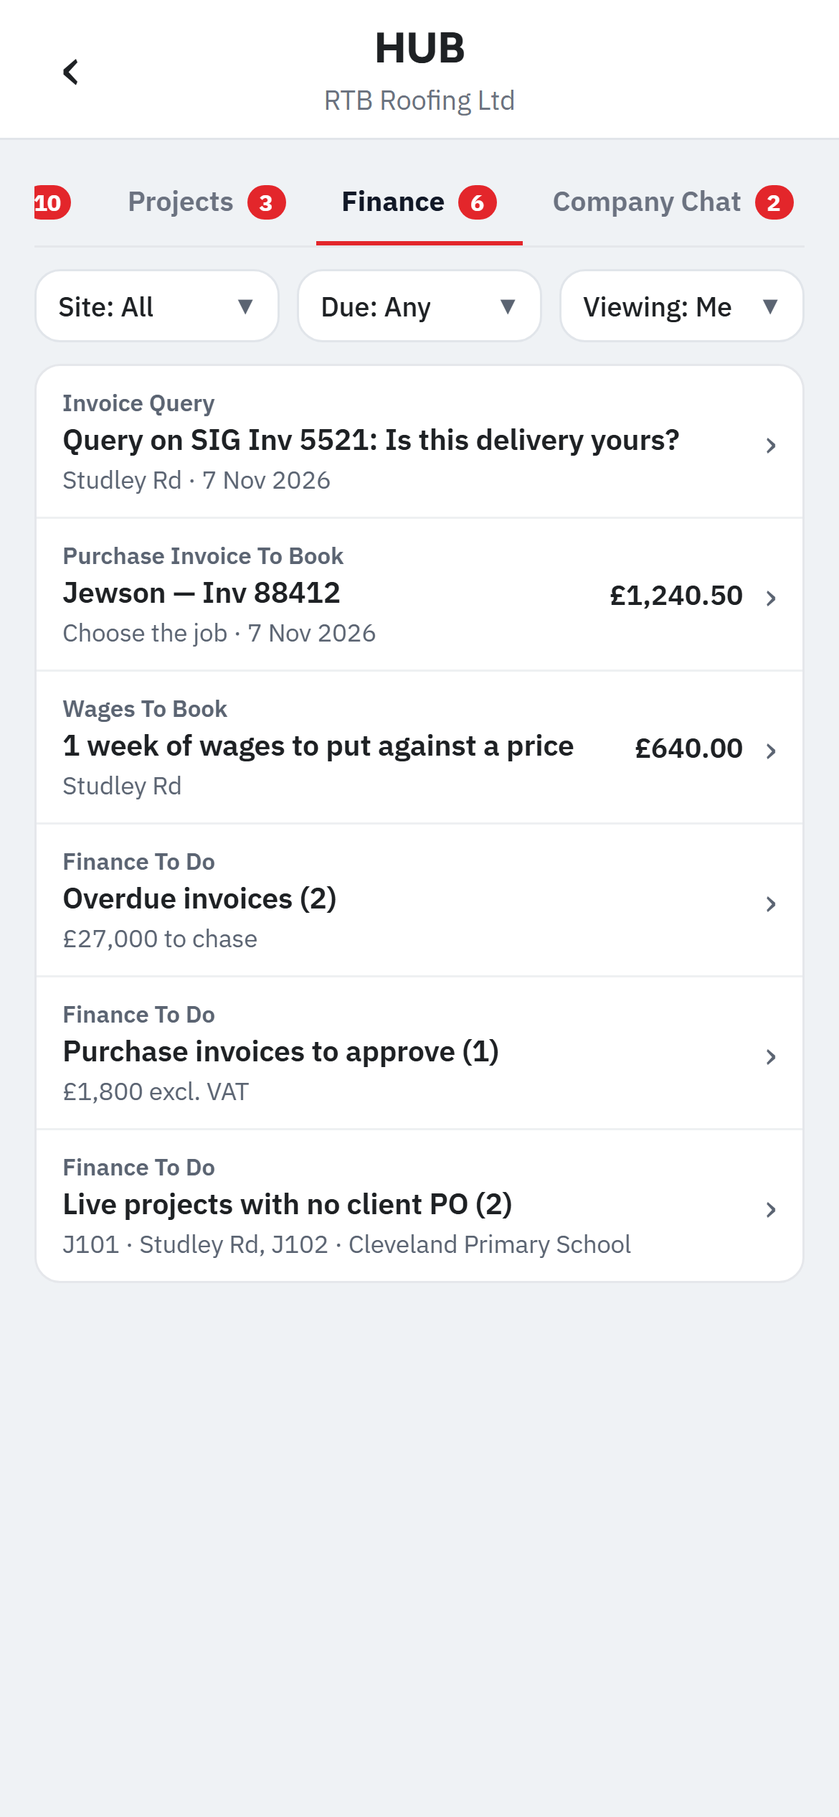
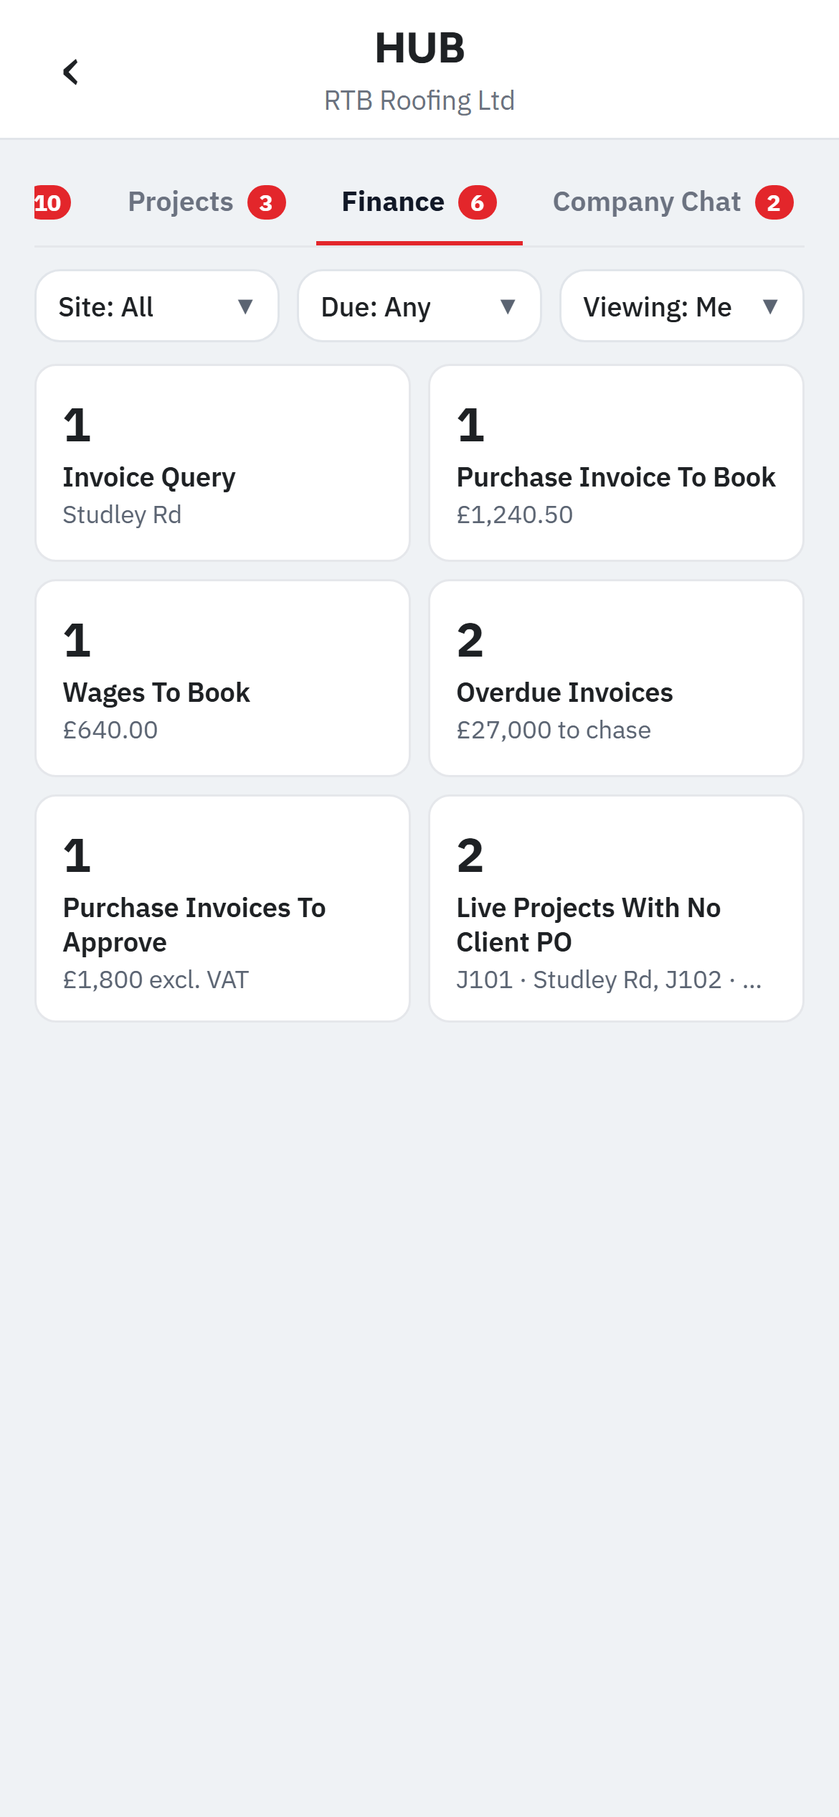
HUB (Andy, 7 Nov): Finance as tiles (one per kind, with how many and what they come to; a tile opens its items, or the item if there's one; Finance's to-dos capitalised), Projects line by line grouped by task under headings. hub-check passes (28).
Repair rebuild, in progress: the contract home's four tiles (Works Orders with a red count, Health & Safety, Calendar, To Do List); tenant and phone read from the works order; GPS for a job from its postcode (postcodes.io, as the Sites Map); job notes; checking in and out of one job; a general StageBar; database for quotes (migration repairs_quotes_7nov: schedule of rates per contract, contract discount, quote lines on the job, the contract's VAT for anyone on it).

Claude-Session: https://claude.ai/code/session_012KhfNvBEbifMJmPdX7yZfp

diff --git a/app-native/src/app/(app)/pm/hub.tsx b/app-native/src/app/(app)/pm/hub.tsx
@@ -42,6 +42,7 @@ export default function Hub() {
   const [pm, setPm] = useState('');
   const [site, setSite] = useState('');
   const [due, setDue] = useState<string>('all');
+  const [finPick, setFinPick] = useState<string | null>(null); // the Finance tile opened
   const hub = useHubAll(me, org, sites, pm);
   // Coming back from dealing with something: look again, so it has dropped off.
   const first = useRef(true);
@@ -65,6 +66,60 @@ export default function Hub() {
     if (it.area === 'chat') { setTab('chat'); return; }
     router.push(it.route as never);
   };
+  // One line in a list. showType: the small line above saying what it is (left off under a heading that says it).
+  const row = (it: HubItem, i: number, showType: boolean) => (
+    <Pressable key={it.key} accessibilityRole="button" accessibilityLabel={`${it.typeLbl}: ${it.label}`} onPress={() => void open(it)}
+      style={{ flexDirection: 'row', alignItems: 'center', gap: 10, paddingVertical: 10, paddingHorizontal: 12, borderTopWidth: i ? 1 : 0, borderTopColor: '#EEF0F2' }}>
+      <View style={{ flex: 1, minWidth: 0 }}>
+        {showType && <Text numberOfLines={1} style={{ fontSize: 11, fontWeight: '600', color: base.slate }}>{tab === 'all' ? `${AREA[it.area]} · ${it.typeLbl}` : it.typeLbl}</Text>}
+        <Text numberOfLines={2} style={{ fontSize: 13.5, fontWeight: '600', color: base.ink, marginTop: showType ? 1 : 0 }}>{it.label}</Text>
+        <Text numberOfLines={1} style={{ fontSize: 11.5, color: base.slate, marginTop: 2 }}>{it.siteName}{it.due ? ` · Due ${fmt(it.due)}` : it.at ? ` · ${fmt(it.at)}` : ''}</Text>
+      </View>
+      {it.amount != null && <Text style={{ fontSize: 13, fontWeight: '600', color: base.ink }}>{money(it.amount)}</Text>}
+      <Text style={{ fontSize: 18, color: base.slate }}>›</Text>
+    </Pressable>
+  );
+  const listBox = (items: HubItem[], showType: boolean) => <View style={{ backgroundColor: base.card, borderWidth: 1, borderColor: base.cardLine, borderRadius: 12, overflow: 'hidden', marginBottom: 10 }}>{items.map((it, i) => row(it, i, showType))}</View>;
+  // Groups in the order they first come (the list is soonest-due first). Finance to-dos are a tile each.
+  const groups = (items: HubItem[], each?: (it: HubItem) => boolean) => {
+    const out: { k: string; l: string; items: HubItem[] }[] = [];
+    items.forEach((it) => { const k = each?.(it) ? it.key : it.typeLbl; let g = out.find((x) => x.k === k); if (!g) { g = { k, l: it.typeLbl, items: [] }; out.push(g); } g.items.push(it); });
+    return out;
+  };
+  // Finance: a tile per kind, with how many and what they come to (a Finance to-do already says how many).
+  const finTiles = () => {
+    const gs = groups(shown, (it) => it.type === 'fin_todo');
+    const pickedG = gs.find((g) => g.k === finPick);
+    return (
+      <>
+        <View style={{ flexDirection: 'row', flexWrap: 'wrap', gap: 8, marginBottom: 10 }}>
+          {gs.map((g) => {
+            const todo = g.items[0].type === 'fin_todo';
+            const n = todo ? Number(/\((\d+)\)$/.exec(g.items[0].label)?.[1] || 1) : g.items.length;
+            const title = todo ? g.items[0].label.replace(/\s*\(\d+\)$/, '').replace(/\b[a-z]/g, (c) => c.toUpperCase()) : g.l;
+            const sum = g.items.reduce((t2, it) => t2 + (it.amount || 0), 0);
+            const on = finPick === g.k;
+            return (
+              <Pressable key={g.k} accessibilityRole="button" accessibilityLabel={`${title}, ${n}`} onPress={() => { if (g.items.length === 1) void open(g.items[0]); else setFinPick(on ? null : g.k); }}
+                style={{ flexGrow: 1, flexBasis: '45%', backgroundColor: base.card, borderWidth: on ? 2 : 1, borderColor: on ? base.ink : base.cardLine, borderRadius: 10, paddingVertical: 12, paddingHorizontal: 12, minHeight: 92 }}>
+                <Text style={{ fontSize: 22, fontWeight: '700', color: base.ink }}>{n}</Text>
+                <Text numberOfLines={2} style={{ fontSize: 12.5, fontWeight: '600', color: base.ink, marginTop: 2 }}>{title}</Text>
+                <Text numberOfLines={1} style={{ fontSize: 11.5, color: base.slate, marginTop: 2 }}>{todo ? g.items[0].siteName : sum ? money(sum) : g.items.length === 1 ? g.items[0].siteName : 'Tap to see them'}</Text>
+              </Pressable>
+            );
+          })}
+        </View>
+        {!!pickedG && listBox(pickedG.items, false)}
+      </>
+    );
+  };
+  // Projects: line by line, under a heading for each kind of task.
+  const projGroups = () => groups(shown).map((g) => (
+    <View key={g.k}>
+      <Text style={{ fontSize: 11.5, fontWeight: '700', color: base.slate, letterSpacing: 0.4, marginTop: 4, marginBottom: 6 }}>{g.l.toUpperCase()} ({g.items.length})</Text>
+      {listBox(g.items, false)}
+    </View>
+  ));
   const drop = (label: string, value: string, onPress: () => void) => (
     <Pressable accessibilityRole="button" accessibilityLabel={label} onPress={onPress} style={{ flex: 1, minWidth: 0, flexDirection: 'row', alignItems: 'center', justifyContent: 'space-between', gap: 4, paddingHorizontal: 10, paddingVertical: 8, borderWidth: 1, borderColor: base.line, borderRadius: radius.input, backgroundColor: base.card }}>
       <Text numberOfLines={1} style={{ flexShrink: 1, fontSize: 12.5, fontWeight: '500', color: base.ink }}>{label}: {value}</Text>
@@ -112,21 +167,9 @@ export default function Hub() {
               if (k !== null) { setPm(k); setSite(''); }
             })}
           </View>
+          {/* Finance as tiles; Projects grouped by task; Everything one list (Andy, 7 Nov 2026). */}
           {hub.isLoading ? <Muted>Loading…</Muted> : shown.length ? (
-            <View style={{ backgroundColor: base.card, borderWidth: 1, borderColor: base.cardLine, borderRadius: 12, overflow: 'hidden' }}>
-              {shown.map((it, i) => (
-                <Pressable key={it.key} accessibilityRole="button" accessibilityLabel={`${it.typeLbl}: ${it.label}`} onPress={() => void open(it)}
-                  style={{ flexDirection: 'row', alignItems: 'center', gap: 10, paddingVertical: 10, paddingHorizontal: 12, borderTopWidth: i ? 1 : 0, borderTopColor: '#EEF0F2' }}>
-                  <View style={{ flex: 1, minWidth: 0 }}>
-                    <Text numberOfLines={1} style={{ fontSize: 11, fontWeight: '600', color: base.slate }}>{tab === 'all' ? `${AREA[it.area]} · ${it.typeLbl}` : it.typeLbl}</Text>
-                    <Text numberOfLines={2} style={{ fontSize: 13.5, fontWeight: '600', color: base.ink, marginTop: 1 }}>{it.label}</Text>
-                    <Text numberOfLines={1} style={{ fontSize: 11.5, color: base.slate, marginTop: 2 }}>{it.siteName}{it.due ? ` · Due ${fmt(it.due)}` : it.at ? ` · ${fmt(it.at)}` : ''}</Text>
-                  </View>
-                  {it.amount != null && <Text style={{ fontSize: 13, fontWeight: '600', color: base.ink }}>{money(it.amount)}</Text>}
-                  <Text style={{ fontSize: 18, color: base.slate }}>›</Text>
-                </Pressable>
-              ))}
-            </View>
+            tab === 'finance' ? finTiles() : tab === 'projects' ? projGroups() : listBox(shown, true)
           ) : <Empty>{tab === 'finance' ? 'Nothing from Finance waiting for you.' : 'Nothing waiting for you here.'}</Empty>}
         </ScrollView>
       )}

diff --git a/app-native/src/data/repairCheckin.ts b/app-native/src/data/repairCheckin.ts
@@ -1,0 +1,67 @@
+// Checking in and out of one repair job (Andy, 7 Nov 2026): as the normal check-in (GPS for operatives, the phone's
+// device id, a fresh look at the server first), against the job's own address (from its postcode), and the row
+// remembers which job it was. The contract stays the site, so timesheets and On Site Now work as they do.
+import { useQuery } from '@tanstack/react-query';
+
+import { getPosition, type CheckResult } from '@/data/checkinAction';
+import { geocodeRepairJob } from '@/data/repairs';
+import { checkinDeviceField } from '@/lib/deviceLock';
+import { geofenceError, needsGps, timeHM, type CheckType } from '@/lib/rules/checkin';
+import { isManager } from '@/lib/roles';
+import { supabase } from '@/lib/supabase';
+import type { Profile } from '@/lib/types';
+
+type Row = Record<string, any>;
+const db = supabase as unknown as { from: (t: string) => ReturnType<typeof supabase.from> };
+const NO_SIGNAL = 'Could not reach the server — check your signal and try again.';
+
+/** The newest check-in row per repair job (null key: checked in on the contract itself). Rows newest first. */
+export function latestByJob(rows: { repair_job_id: string | null; type: string }[]): Record<string, string> {
+  const out: Record<string, string> = {};
+  rows.forEach((r) => { const k = r.repair_job_id || ''; if (!(k in out)) out[k] = r.type; });
+  return out;
+}
+
+export function useRepairCheck(siteId: string | undefined, jobId: string | undefined, meId: string | undefined) {
+  return useQuery({
+    queryKey: ['repairCheck', jobId, meId], enabled: !!siteId && !!jobId && !!meId,
+    queryFn: async () => {
+      const r = await db.from('checkins').select('repair_job_id,type,ts').eq('site_id', siteId as string).eq('user_id', meId as string).eq('repair_job_id', jobId as string).order('ts', { ascending: false }).limit(1);
+      const row = ((r.data as Row[] | null) ?? [])[0];
+      return { in: row?.type === 'in', ts: (row?.ts as string | undefined) ?? null };
+    },
+  });
+}
+
+export async function repairCheck(me: Profile, siteId: string, job: Row, type: CheckType, jobs: Row[]): Promise<CheckResult> {
+  const rows = await db.from('checkins').select('repair_job_id,type,ts').eq('site_id', siteId).eq('user_id', me.id).order('ts', { ascending: false }).limit(200);
+  if (rows.error) return { ok: false, error: NO_SIGNAL };
+  const latest = latestByJob((rows.data as Row[]) as never);
+  const amIn = latest[job.id] === 'in';
+  if (type === 'in') {
+    if (amIn) return { ok: false, toast: "You're already checked in here." };
+    const elsewhere = Object.keys(latest).filter((k) => k && k !== job.id && latest[k] === 'in');
+    if (elsewhere.length) {
+      const names = elsewhere.map((k) => { const o = jobs.find((x) => x.id === k); return o ? o.job_number || o.address || 'another job' : 'another job'; }).join(', ');
+      return { ok: false, alert: `You're still checked in at ${names}. Check out there first, then check in here.` };
+    }
+  } else if (!amIn) return { ok: false, toast: "You're not checked in here." };
+
+  let gps: { lat: number; lon: number; accuracy?: number | null } | null = null;
+  if (needsGps(isManager(me))) {
+    const g = await getPosition();
+    if ('error' in g) return { ok: false, error: g.error };
+    let fence = { geofence_lat: job.geofence_lat ?? null, geofence_lon: job.geofence_lon ?? null, geofence_radius_m: job.geofence_radius_m ?? 300 };
+    if (fence.geofence_lat == null) { const p = await geocodeRepairJob(job.id, job.address); if (p) fence = { geofence_lat: p.lat, geofence_lon: p.lon, geofence_radius_m: 300 }; }
+    const err = geofenceError(type, g, fence, 'this address');
+    if (err) return { ok: false, error: err };
+    gps = g;
+  }
+  const ins = await db.from('checkins').insert({
+    site_id: siteId, user_id: me.id, type, repair_job_id: job.id,
+    ...(gps ? { lat: gps.lat, lon: gps.lon, accuracy_m: Math.round(gps.accuracy || 0) } : {}),
+    ...(await checkinDeviceField(me)),
+  } as never);
+  if (ins.error) return { ok: false, error: ins.error.code === 'P0001' ? ins.error.message : NO_SIGNAL };
+  return { ok: true, toast: `${type === 'in' ? 'Checked in' : 'Checked out'} · ${timeHM(Date.now())}` };
+}

diff --git a/app-native/src/data/repairs.ts b/app-native/src/data/repairs.ts
@@ -45,9 +45,37 @@ export async function setRepairHiddenTiles(orgId: string, keys: string[]): Promi
   return !!(await db.from('organizations').update({ repair_hidden_tiles: keys } as never).eq('id', orgId).select('id')).data?.length;
 }
 
-export async function addRepairJob(me: Profile, siteId: string, f: { address: string; job_number: string; description: string }): Promise<string | null> {
-  const r = await db.from('repair_jobs').insert({ site_id: siteId, org_id: me.org_id, address: f.address, job_number: f.job_number || null, description: f.description || null, survey_required: 'N', job_status: 'To Survey', created_by: me.id } as never).select('id').single();
-  return r.error || !r.data ? null : (r.data as { id: string }).id;
+export type NewRepair = { address: string; job_number: string; description: string; tenant_name?: string; tenant_phone?: string; tenant_no?: string; priority?: string };
+export async function addRepairJob(me: Profile, siteId: string, f: NewRepair): Promise<string | null> {
+  const t = (v?: string) => (v || '').trim() || null;
+  const r = await db.from('repair_jobs').insert({ site_id: siteId, org_id: me.org_id, address: f.address, job_number: f.job_number || null, description: f.description || null, tenant_name: t(f.tenant_name), tenant_phone: t(f.tenant_phone), tenant_no: t(f.tenant_no), priority: t(f.priority), survey_required: 'N', job_status: 'To Survey', created_by: me.id } as never).select('id').single();
+  const id = r.error || !r.data ? null : (r.data as { id: string }).id;
+  if (id) void geocodeRepairJob(id, f.address);
+  return id;
+}
+/** A UK postcode in an address, or null. */
+export const postcodeIn = (addr?: string | null) => (String(addr || '').toUpperCase().match(/\b([A-Z]{1,2}\d[A-Z\d]?)\s*(\d[A-Z]{2})\b/) || []).slice(1, 3).join(' ') || null;
+/** Where the job is (from its postcode, with the free UK postcodes.io service, as the Sites Map does), for the check-in. Best-effort. */
+export async function geocodeRepairJob(id: string, address?: string | null): Promise<{ lat: number; lon: number } | null> {
+  const pc = postcodeIn(address); if (!pc) return null;
+  try {
+    const r = await fetch(`https://api.postcodes.io/postcodes/${encodeURIComponent(pc)}`);
+    const j = (await r.json()) as { result?: { latitude?: number; longitude?: number } };
+    const lat = j.result?.latitude, lon = j.result?.longitude;
+    if (lat == null || lon == null) return null;
+    // A postcode covers a few streets, so a wider circle than a site's.
+    await patchRepairJob(id, { geofence_lat: lat, geofence_lon: lon, geofence_radius_m: 300 });
+    return { lat, lon };
+  } catch { return null; }
+}
+
+/** Notes on a job (everyone on the contract, the client too, can read and add them). */
+export type RepairNote = { id: string; author_id: string; author_name: string | null; body: string; created_at: string };
+export function useRepairNotes(jobId: string | undefined) {
+  return useQuery({ queryKey: ['repairNotes', jobId], enabled: !!jobId, queryFn: async () => ((await db.from('repair_job_notes').select('id,author_id,author_name,body,created_at').eq('repair_job_id', jobId as string).order('created_at')).data as RepairNote[] | null) ?? [] });
+}
+export async function addRepairNote(me: Profile, jobId: string, body: string): Promise<boolean> {
+  return !(await db.from('repair_job_notes').insert({ repair_job_id: jobId, author_id: me.id, author_name: me.name, body: body.trim().slice(0, 4000) } as never)).error;
 }
 export async function patchRepairJob(id: string, patch: Partial<RepairJob> & Record<string, unknown>): Promise<boolean> {
   return !!(await db.from('repair_jobs').update(patch as never).eq('id', id).select('id')).data?.length;

diff --git a/app-native/src/components/StageBar.tsx b/app-native/src/components/StageBar.tsx
@@ -1,0 +1,30 @@
+// A progress bar of steps, like the purchase invoice one (Andy, 6 and 7 Nov 2026): the steps done filled in, the one
+// it's at ringed in the company colour, steps not needed dashed, and one plain line saying what happens next.
+import { Text, View } from 'react-native';
+
+import { base, useTheme } from '@/theme/theme';
+
+/** step: 1-based, the one it's at (past the end = all done). skip: steps (1-based) that weren't needed. */
+export function StageBar({ steps, step, next, skip = [], rejected, rejectedLabel = 'Rejected' }: { steps: string[]; step: number; next?: string; skip?: number[]; rejected?: boolean; rejectedLabel?: string }) {
+  const t = useTheme();
+  return (
+    <View accessibilityLabel={`Stage: ${rejected ? rejectedLabel : steps[Math.min(step, steps.length) - 1]}`} style={{ backgroundColor: '#fff', borderWidth: 1, borderColor: '#ECEEF2', borderRadius: 12, paddingVertical: 12, paddingHorizontal: 10, marginBottom: 10 }}>
+      <View style={{ flexDirection: 'row' }}>
+        {steps.map((n, k) => {
+          const i = k + 1, skipped = skip.includes(i), done = !rejected && i < step && !skipped, now = !rejected && i === step;
+          return (
+            <View key={k} style={{ flex: 1, alignItems: 'center' }}>
+              {k < steps.length - 1 && <View style={{ position: 'absolute', top: 11, left: '50%', width: '100%', height: 2, backgroundColor: !rejected && i < step ? base.ink : '#D9DCE1' }} />}
+              <View style={{ width: 24, height: 24, borderRadius: 12, alignItems: 'center', justifyContent: 'center', backgroundColor: done ? base.ink : '#fff', borderWidth: now ? 2 : 1.5, borderStyle: skipped ? 'dashed' : 'solid', borderColor: done ? base.ink : now ? t.brand1 : '#C9CDD3' }}>
+                <Text style={{ fontSize: 11, fontWeight: '700', color: done ? '#fff' : now ? t.brand1 : skipped ? '#C9CDD3' : base.slate }}>{done ? '✓' : skipped ? '–' : i}</Text>
+              </View>
+              <Text numberOfLines={2} style={{ fontSize: 10, lineHeight: 12, marginTop: 4, textAlign: 'center', color: now ? base.ink : base.slate, fontWeight: now ? '700' : '500', paddingHorizontal: 1 }}>{skipped ? 'Not Needed' : n}</Text>
+            </View>
+          );
+        })}
+      </View>
+      {rejected && <Text style={{ marginTop: 8, fontSize: 12.5, fontWeight: '600', color: '#C0392B' }}>{rejectedLabel}</Text>}
+      {!!next && <Text style={{ marginTop: 8, fontSize: 12.5, color: base.ink, backgroundColor: '#F6F7F9', borderRadius: 8, paddingVertical: 7, paddingHorizontal: 9, overflow: 'hidden' }}>{next}</Text>}
+    </View>
+  );
+}

diff --git a/app-native/src/app/(app)/sites/[id]/index.tsx b/app-native/src/app/(app)/sites/[id]/index.tsx
@@ -19,6 +19,8 @@ import { useSiteHome } from '@/data/siteHome';
 import { useToast } from '@/components/toast';
 import { useQueryClient } from '@tanstack/react-query';
 import { useSite } from '@/data/sites';
+import { useRepairJobs } from '@/data/repairs';
+import { BOXES, operativeJobs } from '@/lib/rules/repairStages';
 import { useAuth } from '@/lib/auth';
 import { heading, mono } from '@/lib/fonts';
 import { siteStatusKey } from '@/lib/rules/checkin';
@@ -72,7 +74,9 @@ export default function SiteHome() {
   const desk = useDesk();
   const { data: site, isLoading } = useSite(id);
   const { data: h, refetch } = useSiteHome(site);
-  useFocusEffect(useCallback(() => { void refetch(); }, [refetch]));
+  // A repair contract's Works Orders count (Andy, 7 Nov 2026): managers, jobs to book; operatives, their jobs.
+  const { data: rjobs = [], refetch: refetchJobs } = useRepairJobs(site?.repair_contract ? site.id : undefined);
+  useFocusEffect(useCallback(() => { void refetch(); void refetchJobs(); }, [refetch, refetchJobs]));
   if (!site || !me) return <Muted style={{ padding: space.l }}>{isLoading ? 'Loading…' : 'Project not found.'}</Muted>;
   const mgr = isManager(me);
   const client = me.role === 'client';
@@ -96,10 +100,10 @@ export default function SiteHome() {
       <ScrollView contentContainerStyle={page(720)}>
         {header}
         <HowTo k="site_home" />
+        {/* Four tiles (Andy, 7 Nov 2026): Works Orders, Health & Safety, Calendar, To Do List. */}
         <JobTiles cols={cols} tiles={[
-          { key: 'jobs', ic: 'wrench', bg: TINTS.red[0], fg: TINTS.red[1], title: 'Live Jobs', sub: 'Repair jobs on this contract', onPress: go('repairs') },
+          { key: 'jobs', ic: 'wrench', bg: TINTS.red[0], fg: TINTS.red[1], title: 'Works Orders', sub: mgr ? 'Repair jobs on this contract' : 'Your repair jobs', badge: mgr ? rjobs.filter(BOXES[0].test).length : operativeJobs(rjobs, me.id, false).mine, onPress: go('repairs') },
           { key: 'hs', ic: 'shield', bg: '#E7E9EE', fg: base.ink, title: 'Health & Safety', sub: 'RAMS · COSHH · TBT', onPress: go('hs') },
-          { key: 'mat', ic: 'box', bg: base.okBg, fg: base.ok, title: 'Materials', sub: 'Orders', onPress: go('materials') },
           { key: 'cal', ic: 'calendar', bg: '#E4EEFB', fg: TINTS.blue[1], title: 'Calendar', sub: 'Key dates', onPress: go('calendar') },
           { key: 'todo', ic: 'check', bg: '#EFEAFB', fg: '#5B3FA6', title: 'To Do List', sub: 'Tasks', onPress: go('todos') },
         ]} />

diff --git a/tools/test-harness/hub-check.js b/tools/test-harness/hub-check.js
@@ -52,10 +52,17 @@ const ago = (mins) => new Date(Date.now() - mins * 60000).toISOString();
 
   await page.getByRole('tab', {name: /^Finance/}).click(); await page.waitForTimeout(800);
   t = await body();
-  check(/Jewson — Inv 88412/.test(t) && /£1,240\.50/.test(t), 'Finance: the purchase invoice sent to me to book, with its amount');
+  check(/Purchase Invoice To Book/.test(t) && /£1,240\.50/.test(t), 'Finance tile: the purchase invoice sent to me to book, with its amount');
   check(/Wages To Book/.test(t) && /£640\.00/.test(t), 'Finance: wages to book on my job');
-  check(/Invoice Query/.test(t) && /Is this delivery yours/.test(t), 'Finance: the invoice query');
-  check(/Finance To Do/.test(t) && /Purchase invoices to approve/.test(t), 'Finance: Finance’s own to-do list, for a Finance user');
+  check(/Invoice Query/.test(t), 'Finance tile: the invoice query');
+  check(/Purchase Invoices To Approve/.test(t) && /Overdue Invoices/.test(t), 'Finance tiles: Finance’s own to-do list, for a Finance user (capitalised)');
+  await page.screenshot({path: 'shots/hub-finance.png'});
+  // Projects: line by line under a heading for each kind of task.
+  await page.getByRole('tab', {name: /^Projects/}).click(); await page.waitForTimeout(600);
+  const pt = await body();
+  check(/TOOLBOX TALK \(\d+\)/.test(pt) && /MESSAGE \(\d+\)/.test(pt), 'Projects grouped by task, with headings');
+  await page.screenshot({path: 'shots/hub-projects.png'});
+  await page.getByRole('tab', {name: /^Finance/}).click(); await page.waitForTimeout(600);
   check(!/Can you call the client/.test(t), 'Finance shows Finance only');
   await page.screenshot({path: 'shots/hub-finance.png'});
 

diff --git a/app-native/src/lib/rules/workOrder.ts b/app-native/src/lib/rules/workOrder.ts
@@ -21,13 +21,18 @@ export function workOrderField(rows: string[], label: string): string | null {
   }
   return parts.filter(Boolean).join(' ').replace(/\s+/g, ' ').trim() || null;
 }
-export function parseWorkOrder(rows: string[]): { jobNumber?: string; address?: string; description?: string } {
-  const out: { jobNumber?: string; address?: string; description?: string } = {};
+export function parseWorkOrder(rows: string[]): { jobNumber?: string; address?: string; description?: string; tenant?: string; tenantPhone?: string } {
+  const out: { jobNumber?: string; address?: string; description?: string; tenant?: string; tenantPhone?: string } = {};
   const num = rows.join(' ').replace(/\s+/g, ' ').match(/Work Order:\s*(\S+)/);
   if (num) out.jobNumber = num[1].trim();
   const addr = workOrderField(rows, 'Property:');
   if (addr) out.address = addr.split(/\s+/).map((w) => (/\d/.test(w) ? w : w.charAt(0).toUpperCase() + w.slice(1).toLowerCase())).join(' ');
   const desc = workOrderField(rows, 'Repair Description:');
   if (desc) out.description = desc;
+  // The resident (tenant) and their phone, for the job hub (Andy, 7 Nov 2026).
+  const who = workOrderField(rows, 'Resident:');
+  if (who) out.tenant = who;
+  const tel = workOrderField(rows, 'Resident Phone:');
+  if (tel) out.tenantPhone = tel;
   return out;
 }
